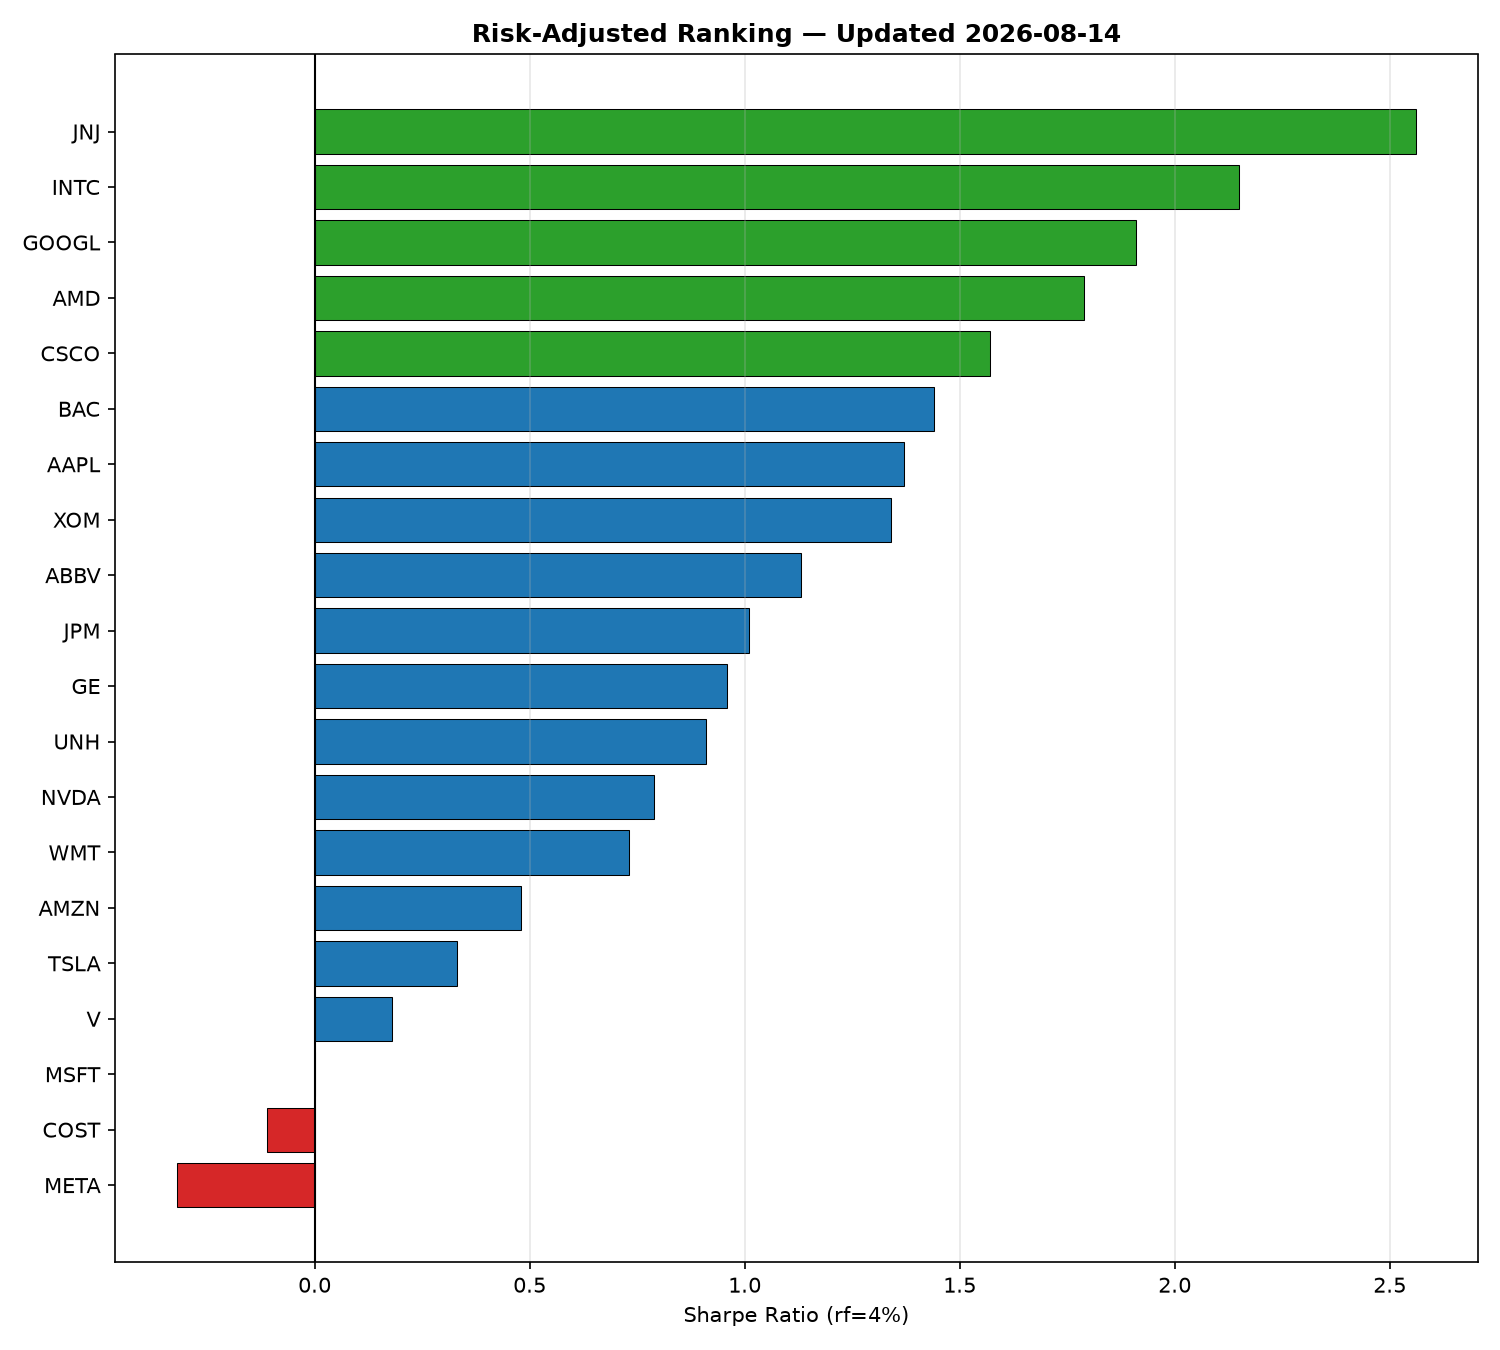
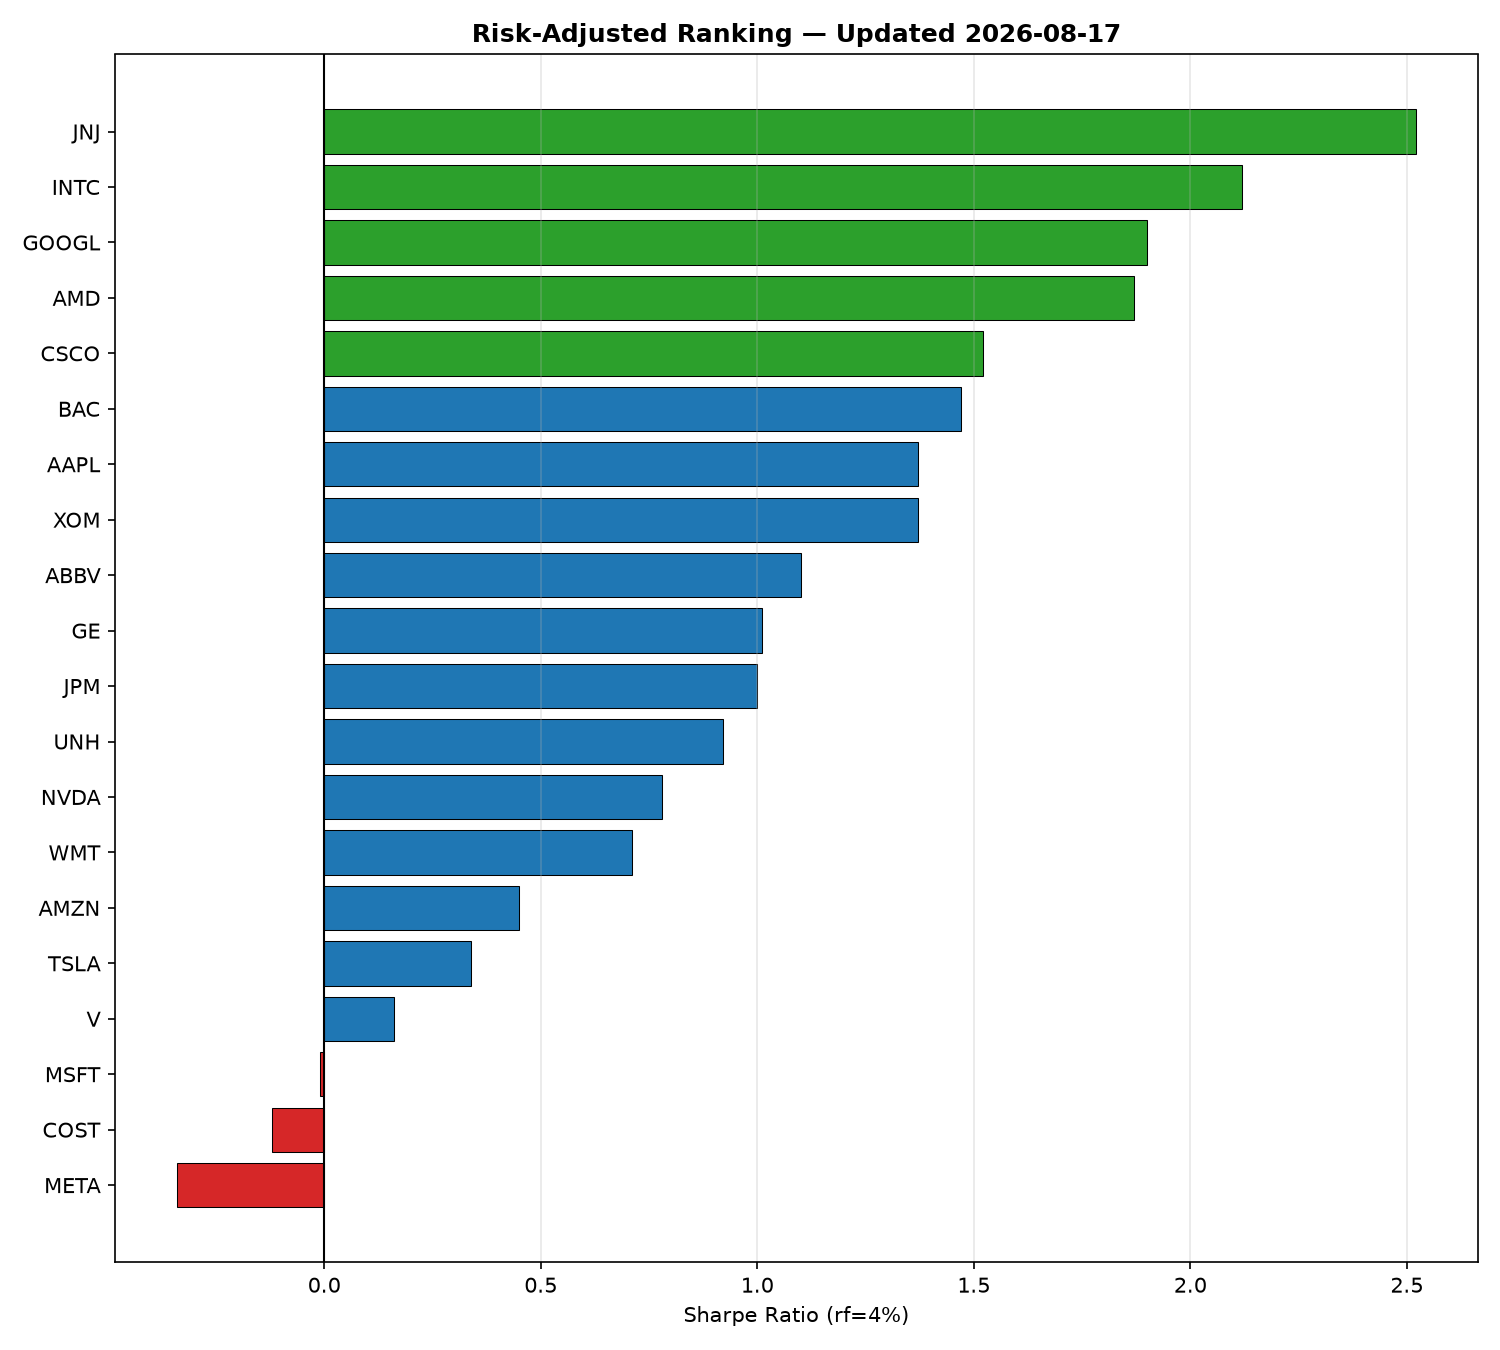
Automated daily update: prices, metrics, and charts

diff --git a/SNAPSHOT.md b/SNAPSHOT.md
@@ -1,9 +1,9 @@
-# Daily Risk Snapshot — 2026-08-13
+# Daily Risk Snapshot — 2026-08-14
 
-**Best mover:** TSLA (+3.80%)
-**Worst mover:** CSCO (-8.40%)
-**Top risk-adjusted performer (trailing window):** JNJ (Sharpe 2.56)
+**Best mover:** AMD (+6.50%)
+**Worst mover:** INTC (-1.97%)
+**Top risk-adjusted performer (trailing window):** JNJ (Sharpe 2.52)
 
-**⚠ Newly anomalous today:** CSCO — return moved more than 2 std. deviations from its own 20-day trailing mean.
+**No new anomaly flags today.**
 
 _Auto-generated by `scripts/daily_snapshot.py` via GitHub Actions._
